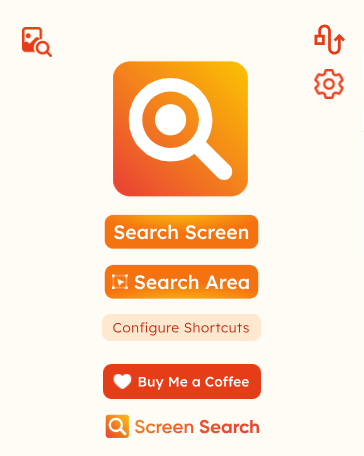
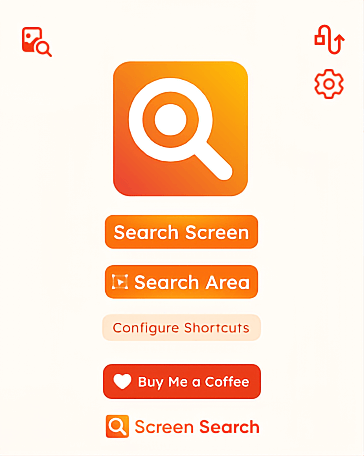
new images

diff --git a/index.html b/index.html
@@ -18,7 +18,7 @@
             <nav class="nav">
                 <div class="logo">
                     <img src="assets/images/extension-icon.png" alt="Screen Search" class="logo-img" width="32" height="32">
-                    <span class="logo-text">Screen Search</span>
+                    <span class="logo-text">Screen Search - Chrome Extension</span>
                 </div>
                 <ul class="nav-links">
                     <li><a href="#features">Features</a></li>
@@ -36,7 +36,7 @@
             <div class="hero-content">
                 <div class="hero-text">
                     <h1 class="hero-title">Search Anything on Your Screen with Google Lens</h1>
-                    <p class="hero-description">Instant visual search, translations, and product info at your fingertips. Turn your screen into a powerful visual search tool.</p>
+                    <p class="hero-description">Instantly search text, images, products, translations, and YouTube videos directly from your screen — all in one click.</p>
                     <div class="hero-buttons">
                         <a href="https://chromewebstore.google.com/detail/screen-search-search-scre/pgliecfpaeiicbmadehhbhdcjmpjonam" class="btn btn-primary" target="_blank" rel="noopener">
                             <svg width="20" height="20" viewBox="0 0 24 24" fill="currentColor">
@@ -52,7 +52,7 @@
                             <div class="stat-label">Active Users</div>
                         </div>
                         <div class="stat">
-                            <div class="stat-number">4.9</div>
+                            <div class="stat-number">4.1</div>
                             <div class="stat-label">Rating</div>
                         </div>
                         <div class="stat">

diff --git a/privacy-policy.html b/privacy-policy.html
@@ -20,10 +20,10 @@
                     <span class="logo-text">Screen Search</span>
                 </div>
                 <ul class="nav-links">
-                    <li><a href="index.html">Home</a></li>
-                    <li><a href="index.html#features">Features</a></li>
-                    <li><a href="index.html#download">Download</a></li>
-                    <li><a href="privacy-policy.html" class="active">Privacy</a></li>
+                    <li><a href="/">Home</a></li>
+                    <li><a href="/#features">Features</a></li>
+                    <li><a href="/#download">Download</a></li>
+                    <li><a href="/privacy-policy.html" class="active">Privacy</a></li>
                 </ul>
             </nav>
         </div>
@@ -129,7 +129,7 @@
                 </div>
 
                 <div class="privacy-footer">
-                    <a href="index.html" class="btn btn-primary">Back to Home</a>
+                    <a href="/" class="btn btn-primary">Back to Home</a>
                 </div>
             </div>
         </div>

diff --git a/styles.css b/styles.css
@@ -229,8 +229,9 @@ body {
     width: 100%;
     max-width: 300px;
     height: auto;
-    border-radius: 12px;
-    box-shadow: var(--shadow-lg);
+    border-radius: 16px;
+    box-shadow: 0 10px 25px rgba(141, 141, 141, 0.1);
+    border: 1px solid gray;
     object-fit: contain;
     animation: fadeInUp 0.8s ease-out;
 }
